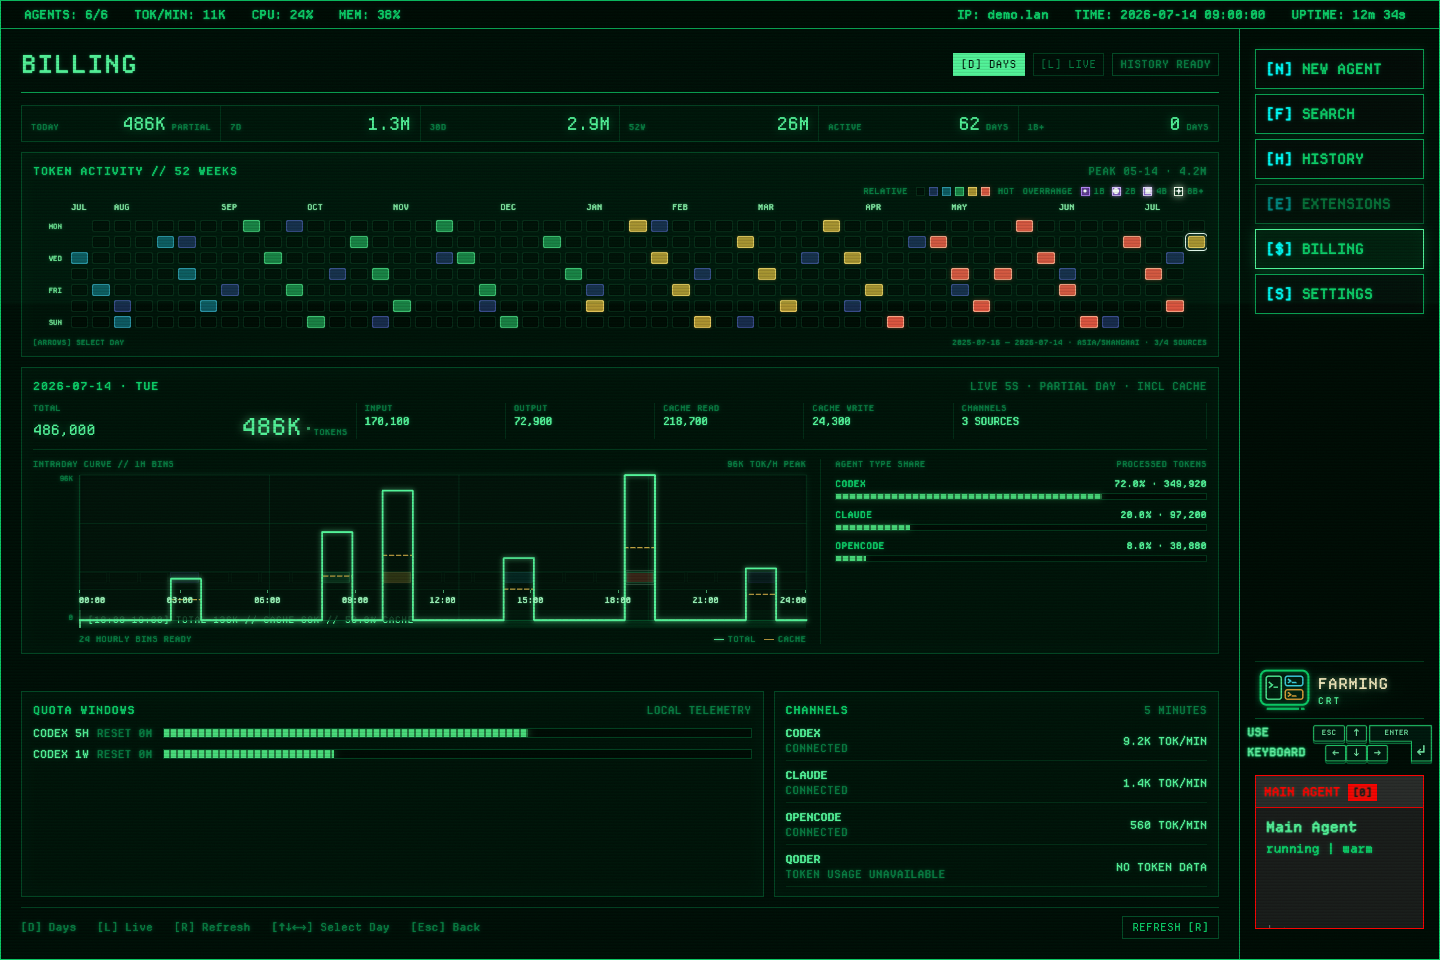
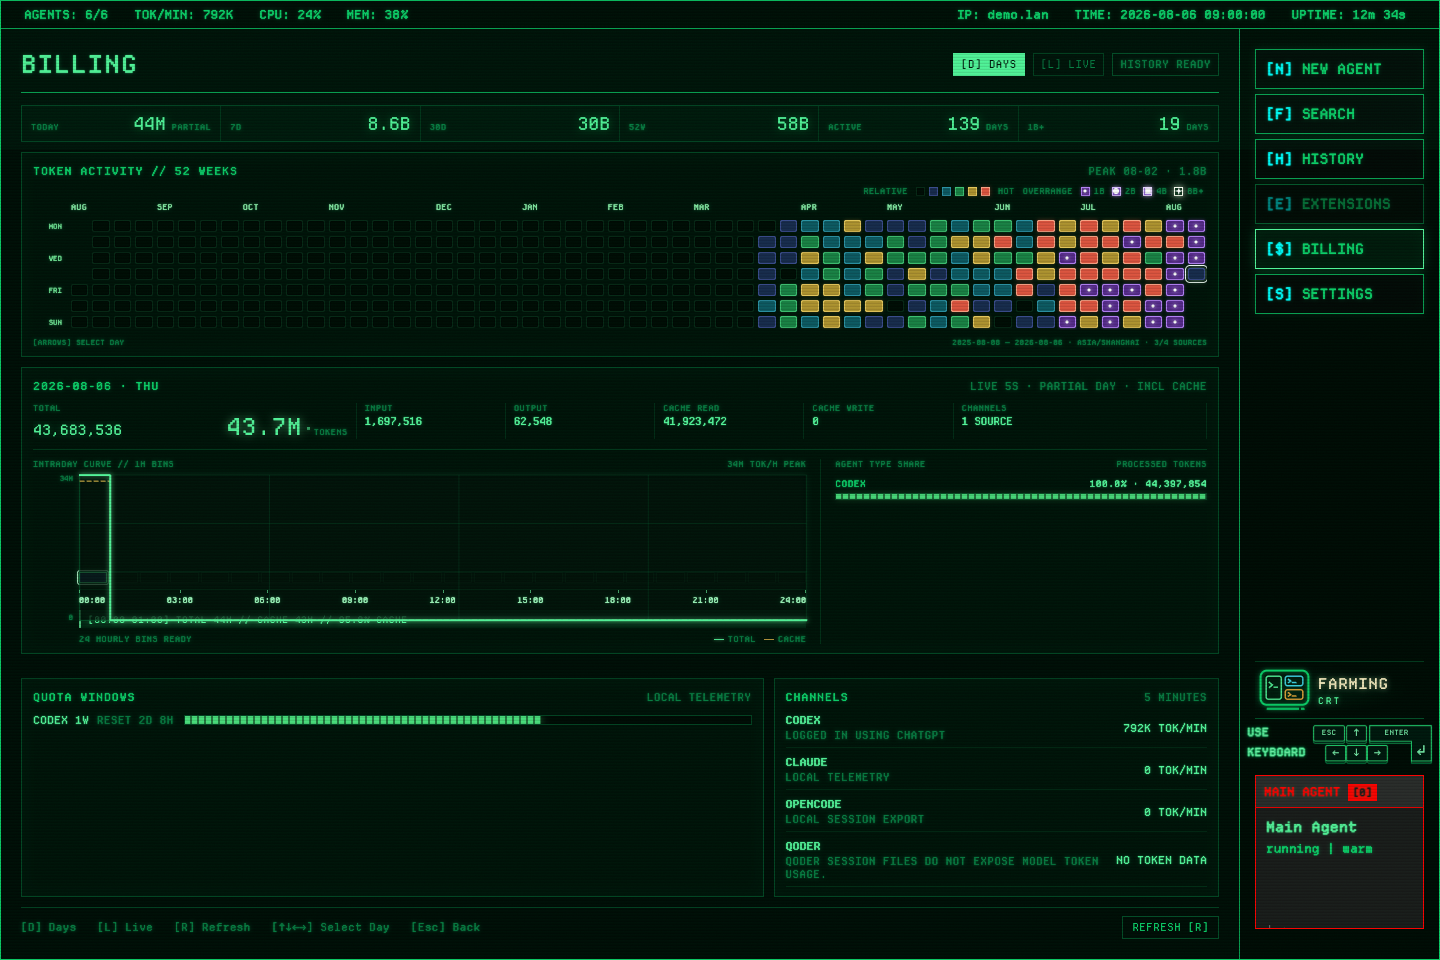
docs: refresh CRT usage screenshot

diff --git a/scripts/capture-product-screenshots.ts b/scripts/capture-product-screenshots.ts
@@ -20,7 +20,7 @@ const customWorkspace = Boolean(process.env.FARMING_SCREENSHOT_WORKSPACE);
 const workspaceDir = path.resolve(process.env.FARMING_SCREENSHOT_WORKSPACE || path.join(homeDir, 'Projects', 'atlas-control-plane'));
 const screenshotDir = path.join(repoRoot, 'docs', 'products', 'code', 'assets');
 const crtScreenshotDir = path.join(repoRoot, 'docs', 'products', 'crt', 'assets');
-const publicScreenshotDir = path.join(repoRoot, 'docs-site', 'cn', 'assets');
+const publicScreenshotDir = path.join(repoRoot, 'docs-site', 'public', 'cn', 'assets');
 type PublicScreenshotSpec = {
   fileName: string;
   clip?: { x: number; y: number; width: number; height: number };
@@ -568,7 +568,7 @@ async function screenshot(page, fileName, directory = screenshotDir) {
         'system-ip': 'demo.lan',
         'cpu-usage': '24',
         'mem-percentage': '38',
-        'system-time': '2026-07-14 09:00:00',
+        'system-time': '2026-08-06 09:00:00',
         uptime: '12m 34s',
       };
       for (const [id, value] of Object.entries(replacements)) {
